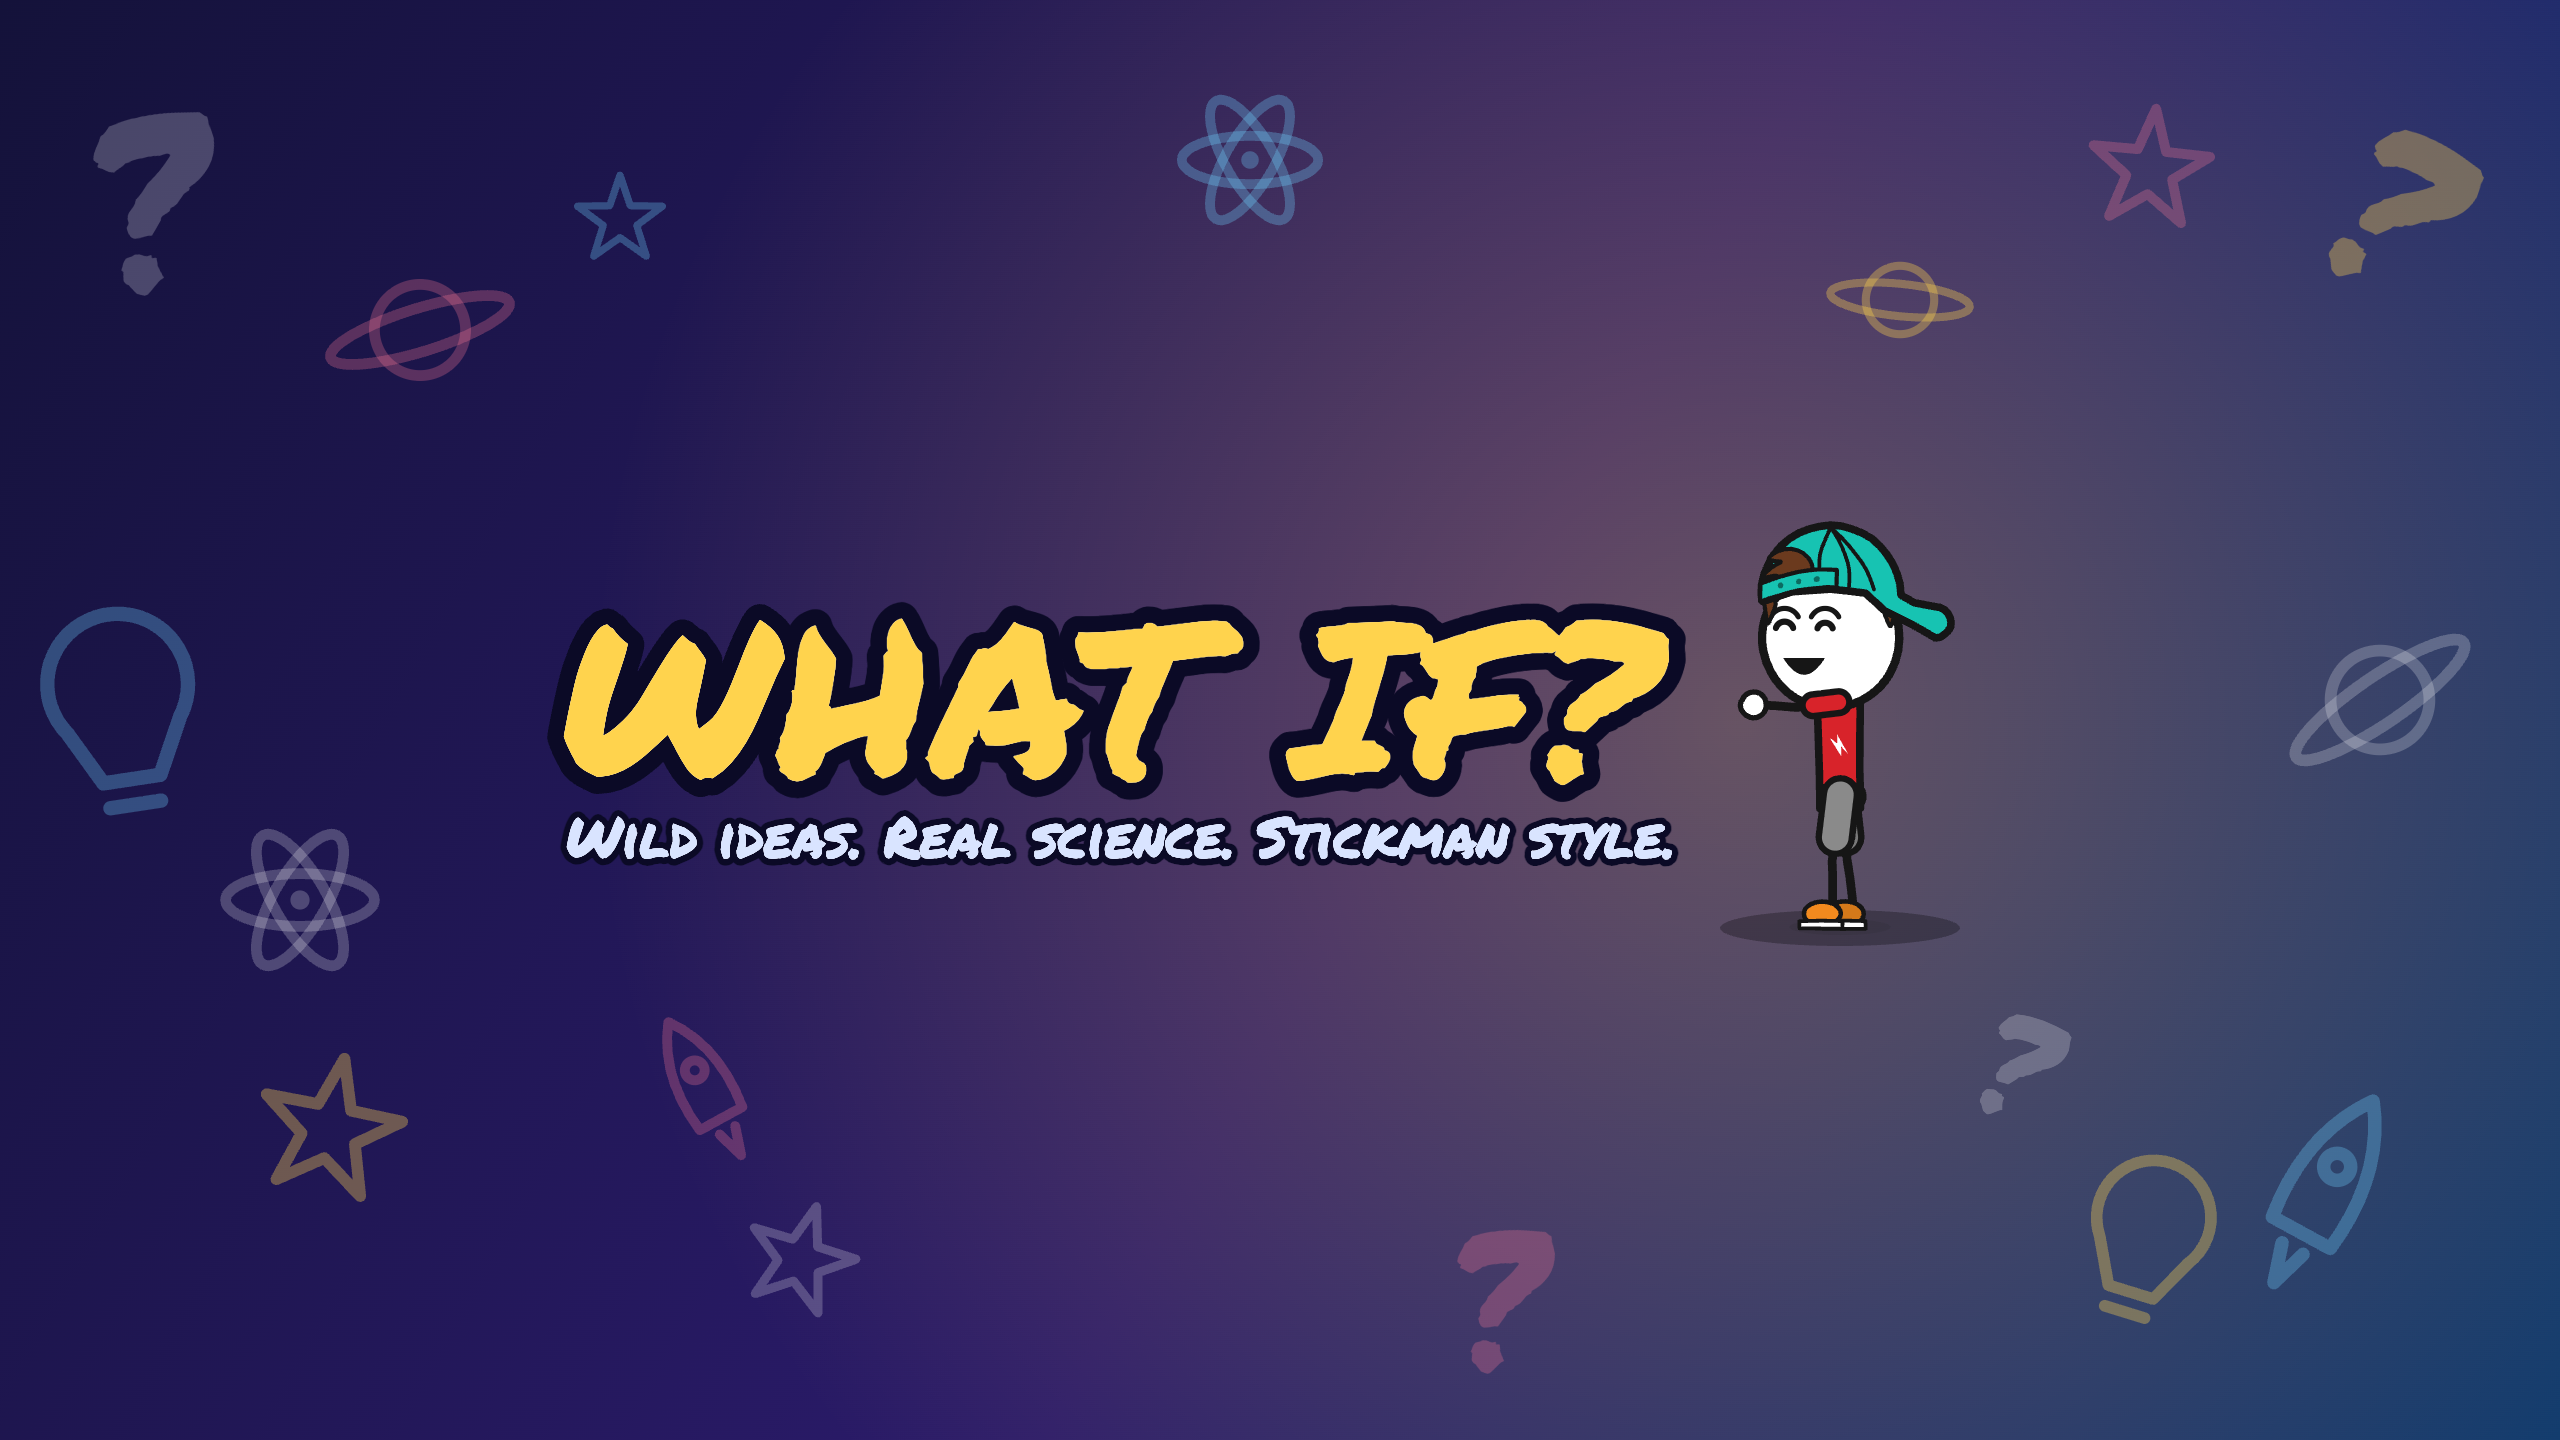
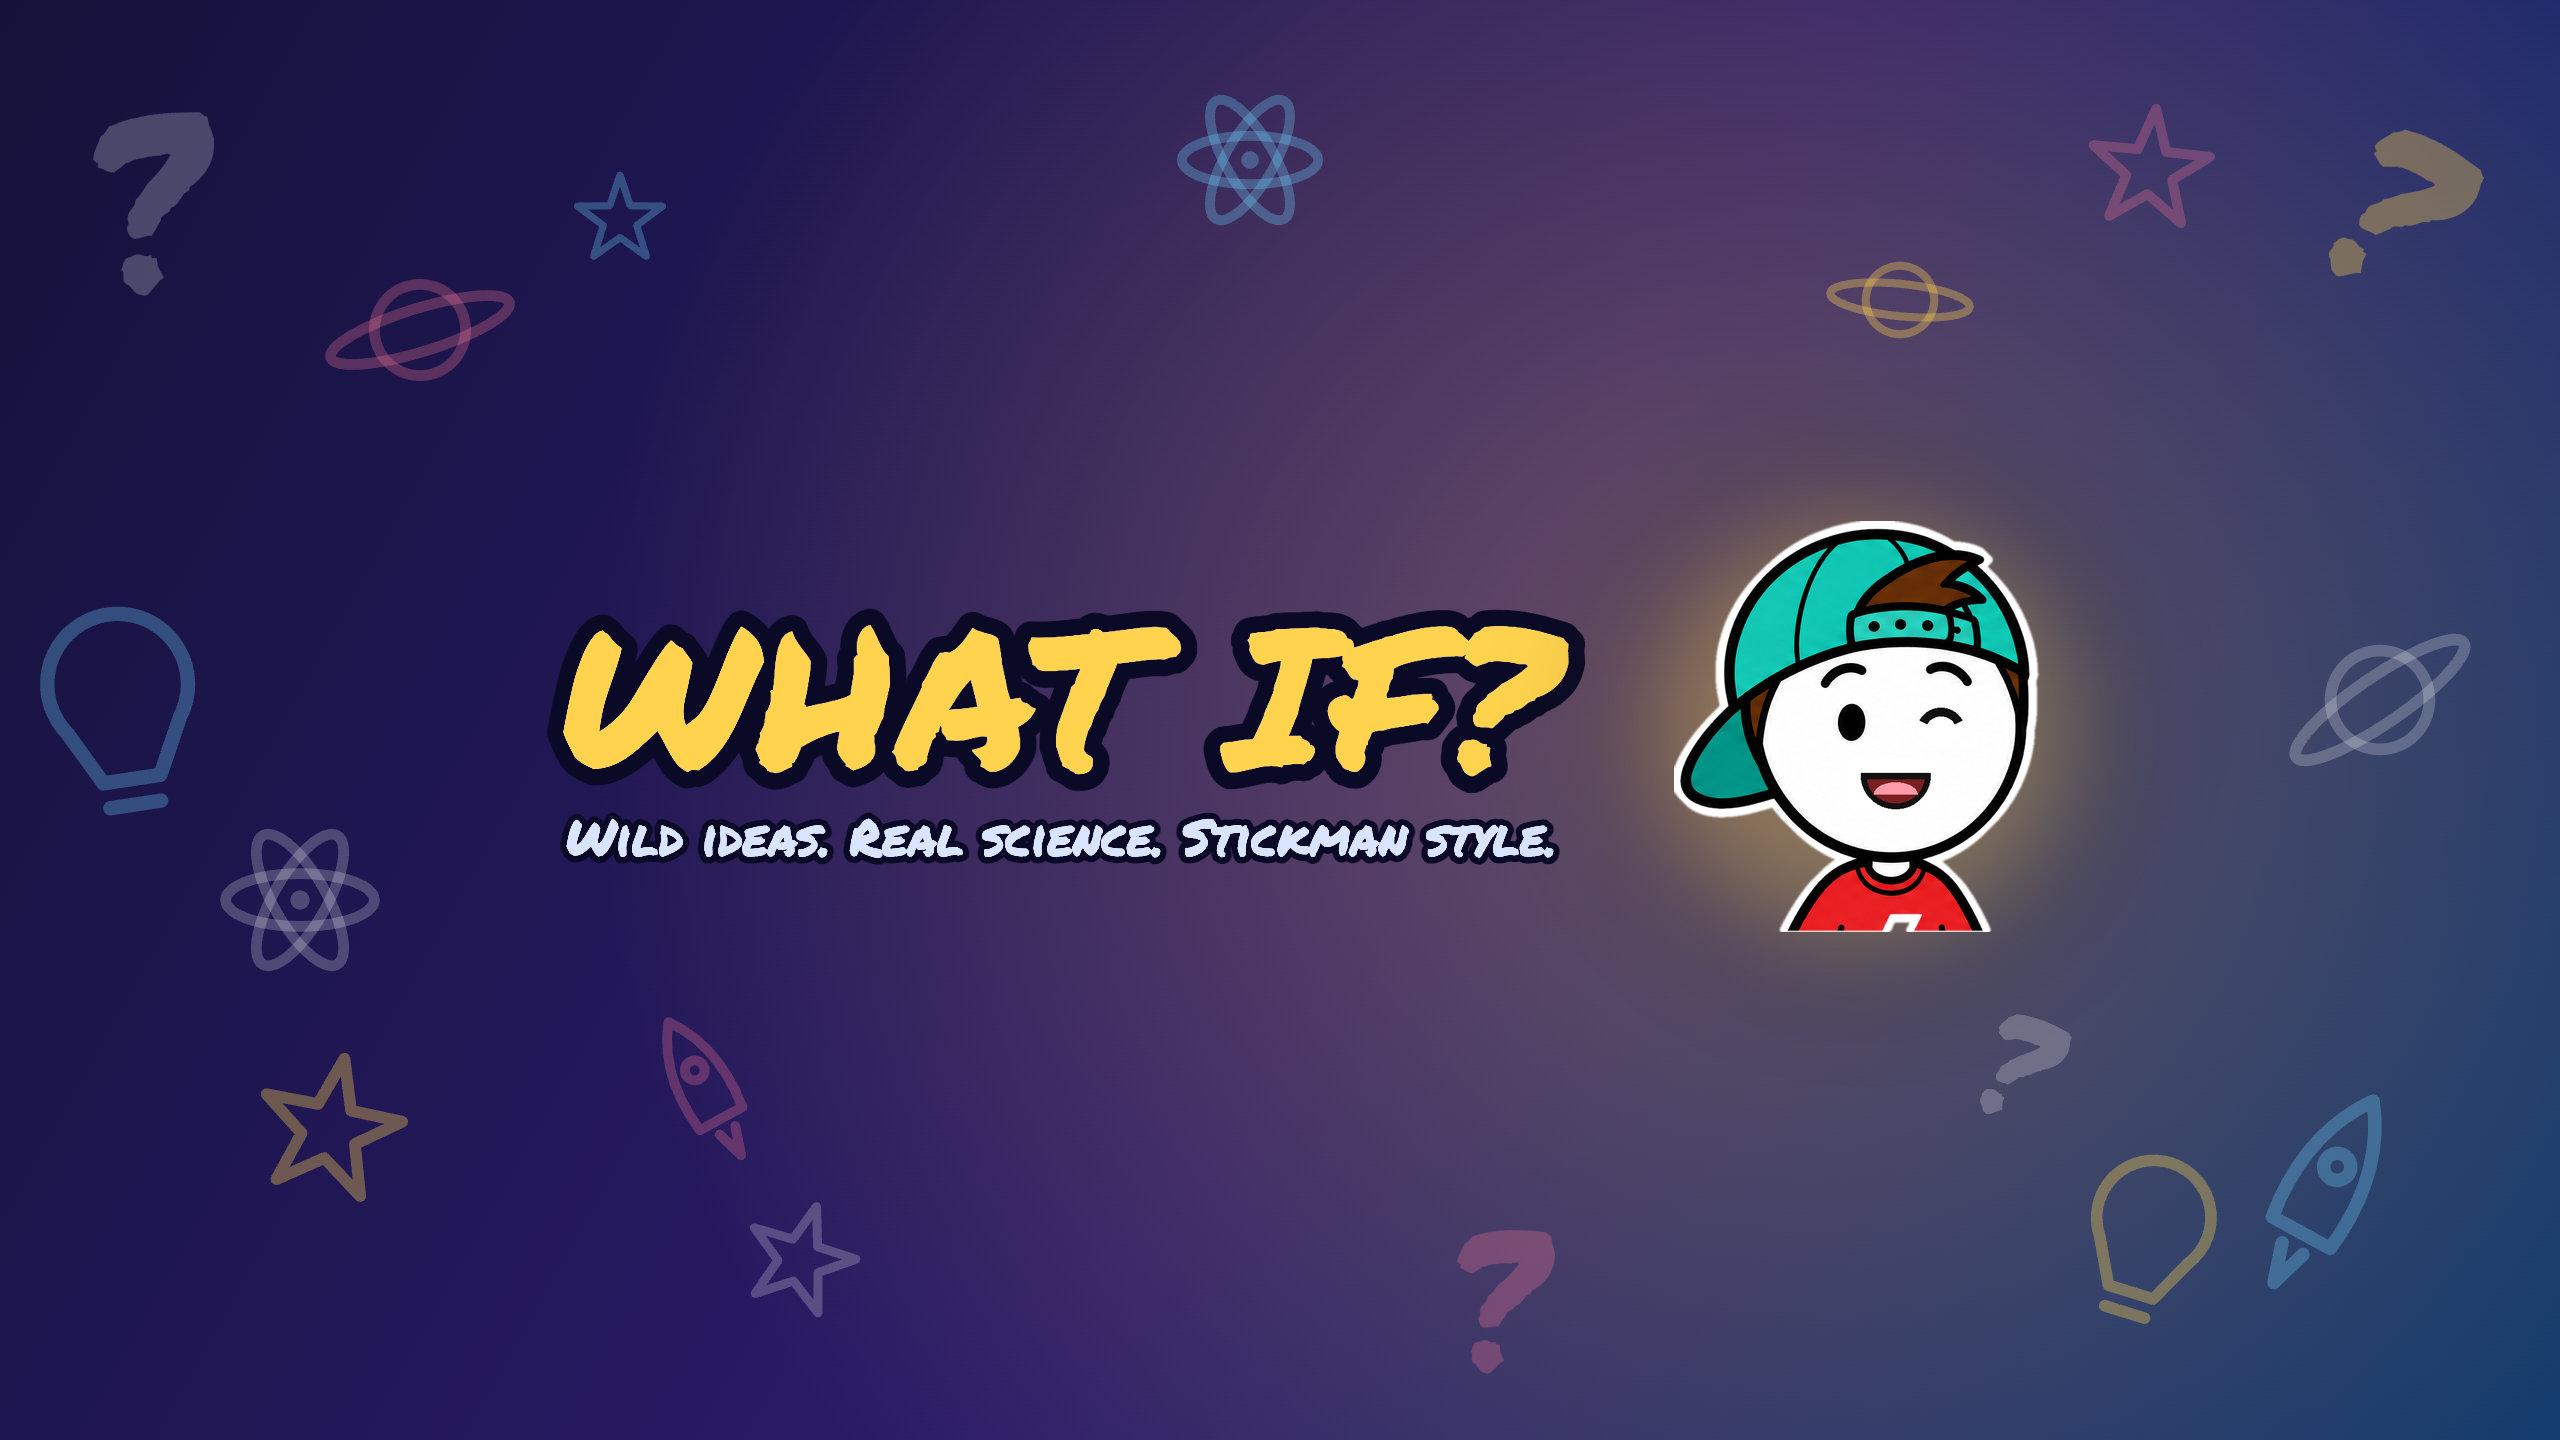
Оформление канала: аватар и баннер с настоящим Leon из эталона, подмигивает и улыбается

Changed region(s): [[0.2188, 0.3438, 0.8125, 0.6562]]

diff --git a/razgon-animation-studio/tools-channel-art.html b/razgon-animation-studio/tools-channel-art.html
@@ -33,13 +33,12 @@ if (mode === 'banner') {
   items.forEach(([k, x, y, s, r], i) => doodle(k, x, y, s, r, COLS[i % 4]));
   // safe zone 1546x423 centred: x 507..2053, y 508..931
   const T = (str, x, y, size, color, o = {}) => text(g, str, x, y, { size, color, align: 'left', font: F, weight: 700, ...o });
-  T('WHAT IF?', 560, 690, 215, '#ffffff', { stroke: 34, strokeColor: '#0b0a26', spacing: 4 });
-  T('WHAT IF?', 560, 690, 215, '#ffd34d', { spacing: 4 });
-  T('Wild ideas. Real science. Stickman style.', 566, 835, 56, '#ffffff', { weight: 600, stroke: 14, strokeColor: '#0b0a26' });
-  T('Wild ideas. Real science. Stickman style.', 566, 835, 56, '#d9e4ff', { weight: 600 });
+  T('WHAT IF?', 560, 690, 195, '#ffffff', { stroke: 34, strokeColor: '#0b0a26', spacing: 4 });
+  T('WHAT IF?', 560, 690, 195, '#ffd34d', { spacing: 4 });
+  T('Wild ideas. Real science. Stickman style.', 566, 835, 50, '#ffffff', { weight: 600, stroke: 14, strokeColor: '#0b0a26' });
+  T('Wild ideas. Real science. Stickman style.', 566, 835, 50, '#d9e4ff', { weight: 600 });
   // glow under hero
-  g.save(); g.fillStyle = 'rgba(0,0,0,.28)'; g.beginPath(); g.ellipse(1840, 928, 120, 18, 0, 0, 7); g.fill(); g.restore();
-  leon(1840, 925, 1.27, 'happy', 'point', -1);
+  g.save(); g.fillStyle = 'rgba(0,0,0,.28)'; g.beginPath(); g.ellipse(1840, 932, 0.1, 0.1, 0, 0, 7); g.fill(); g.restore();
 }
 if (mode === 'logo') {
   const gr = g.createRadialGradient(400, 330, 40, 400, 400, 520); gr.addColorStop(0, '#ffd34d'); gr.addColorStop(0.55, '#ff9d3a'); gr.addColorStop(1, '#ff5a5f'); g.fillStyle = gr; g.fillRect(0, 0, W, H);

diff --git a/канал-оформление/make_avatar.py b/канал-оформление/make_avatar.py
@@ -1,0 +1,65 @@
+# Аватар канала: настоящий Leon с эталона (персонажи/варианты-героя), вырезка, подмигивание, фон-вспышка.
+import numpy as np, math, sys
+from PIL import Image, ImageDraw, ImageFilter
+from scipy import ndimage as ndi
+REF='персонажи/варианты-героя/эталон-мальчик-кепка-молния.png'
+def cutout(box):
+    im=Image.open(REF).convert('RGB').crop(box); a=np.array(im).astype(int)
+    white=(a.min(axis=2)>232)
+    lab,n=ndi.label(white); edge=set(lab[0,:])|set(lab[-1,:])|set(lab[:,0])|set(lab[:,-1]); edge.discard(0)
+    bgm=np.isin(lab,list(edge))
+    alpha=(~bgm).astype(float); alpha=ndi.binary_closing(alpha>0.5,iterations=2).astype(float)
+    al=Image.fromarray((alpha*255).astype('uint8')).filter(ImageFilter.GaussianBlur(1.2))
+    out=im.convert('RGBA'); out.putalpha(al); return out
+def wink(im):
+    d=ImageDraw.Draw(im,'RGBA')
+    d.ellipse((418,300,492,384),fill=(255,255,255,255))            # стереть правый глаз
+    # глаз-дуга (подмигивание) в стиле эталона
+    d.arc((414,318,494,392),205,335,fill=(17,17,17,255),width=15)
+    # широкая улыбка с открытым ртом
+    d.rectangle((300,405,450,490),fill=(255,255,255,255))
+    d.pieslice((318,378,436,490),0,180,fill=(122,31,31,255),outline=(17,17,17,255),width=10)
+    d.chord((340,445,414,486),180,360,fill=(255,154,168,255))
+    d.arc((318,378,436,490),0,180,fill=(17,17,17,255),width=10)
+    d.line((318,434,436,434),fill=(17,17,17,255),width=9)
+    return im
+def sticker(fig, outline=16):
+    a=np.array(fig.split()[3])>127
+    big=ndi.binary_dilation(a,iterations=outline)
+    base=Image.new('RGBA',fig.size,(255,255,255,0)); m=Image.fromarray((big*255).astype('uint8')).filter(ImageFilter.GaussianBlur(1.5))
+    base.paste((255,255,255,255),mask=m); base.alpha_composite(fig); return base
+def burst(S,c1,c2,rays=(255,255,255,40)):
+    bg=Image.new('RGBA',(S,S)); px=bg.load()
+    for y in range(S):
+        for x in range(S):
+            r=math.hypot(x-S/2,y-S*0.45)/(S*0.72); t=min(1,r)
+            px[x,y]=tuple(int(c1[i]*(1-t)+c2[i]*t) for i in range(3))+(255,)
+    ov=Image.new('RGBA',(S,S)); d=ImageDraw.Draw(ov); cx,cy=S/2,S*0.45; n=16
+    for i in range(n):
+        a0=2*math.pi*i/n; a1=a0+math.pi/n
+        d.polygon([(cx,cy),(cx+S*math.cos(a0),cy+S*math.sin(a0)),(cx+S*math.cos(a1),cy+S*math.sin(a1))],fill=rays)
+    bg.alpha_composite(ov); return bg
+def star(d,x,y,r,fill):
+    pts=[(x+(r if i%2==0 else r*0.42)*math.sin(i*math.pi/4)*1,y-(r if i%2==0 else r*0.42)*math.cos(i*math.pi/4)) for i in range(8)]
+    d.polygon(pts,fill=fill)
+def make(out,box,do_wink,S=800):
+    fig=cutout(box)
+    if do_wink: fig=wink(fig)
+    fig=sticker(fig)
+    bg=burst(S,(255,214,64),(255,98,92))
+    k=0.90*S/fig.width; fig=fig.resize((int(fig.width*k),int(fig.height*k)),Image.LANCZOS)
+    bg.alpha_composite(fig,(int((S-fig.width)/2),int(S*0.09)))
+    d=ImageDraw.Draw(bg,'RGBA'); star(d,S*0.86,S*0.15,38,(255,255,255,235)); star(d,S*0.12,S*0.17,24,(255,255,255,210)); star(d,S*0.93,S*0.42,18,(255,255,255,190))
+    bg.convert('RGB').save(out)
+
+def banner_hero(bg_path,out):
+    fig=sticker(wink(cutout((60,40,700,740))),14)
+    H=412; k=H/fig.height; fig=fig.resize((int(fig.width*k),int(fig.height*k)),Image.LANCZOS)
+    b=Image.open(bg_path).convert('RGBA'); x=1862-fig.width//2; y=931-H+2
+    # мягкое свечение за героем
+    gl=Image.new('RGBA',b.size,(0,0,0,0)); ImageDraw.Draw(gl).ellipse((x-60,y-40,x+fig.width+60,y+H+40),fill=(255,214,64,70)); gl=gl.filter(ImageFilter.GaussianBlur(60)); b.alpha_composite(gl)
+    b.alpha_composite(fig,(x,y)); b.convert('RGB').save(out)
+
+if __name__=='__main__':
+    make('канал-оформление/logo.png',(60,40,700,740),True)
+    if len(sys.argv)>2: banner_hero(sys.argv[1],sys.argv[2])

diff --git a/канал-оформление/описание-и-ключевые-слова.md b/канал-оформление/описание-и-ключевые-слова.md
@@ -1,7 +1,7 @@
 # Оформление канала «What if»
 
 Файлы: `banner.png` (2560x1440, баннер), `logo.png` (800x800, аватар).
-Собрано кодом куклой Leon (Razgon, `razgon-animation-studio/tools-channel-art.html`, запуск `tools-channel-art.mjs`). Название на баннере «WHAT IF?» (временное, поменять в коде, если у канала другое).
+Leon на аватаре и баннере вырезан из эталона (`персонажи/варианты-героя/эталон-мальчик-кепка-молния.png`), подмигивание и улыбка дорисованы кодом (`make_avatar.py`). Фон баннера рисует `razgon-animation-studio/tools-channel-art.html` (запуск `tools-channel-art.mjs`), потом `python3 канал-оформление/make_avatar.py <фон> канал-оформление/banner.png` ставит героя. Название на баннере «WHAT IF?» (временное, поменять в коде, если у канала другое).
 
 ## Размеры YouTube
 - Баннер: 2560x1440, до 6 МБ. Безопасная зона для всех устройств: 1546x423 по центру (x 507-2053, y 508-931). Всё важное (название, герой) внутри неё.
